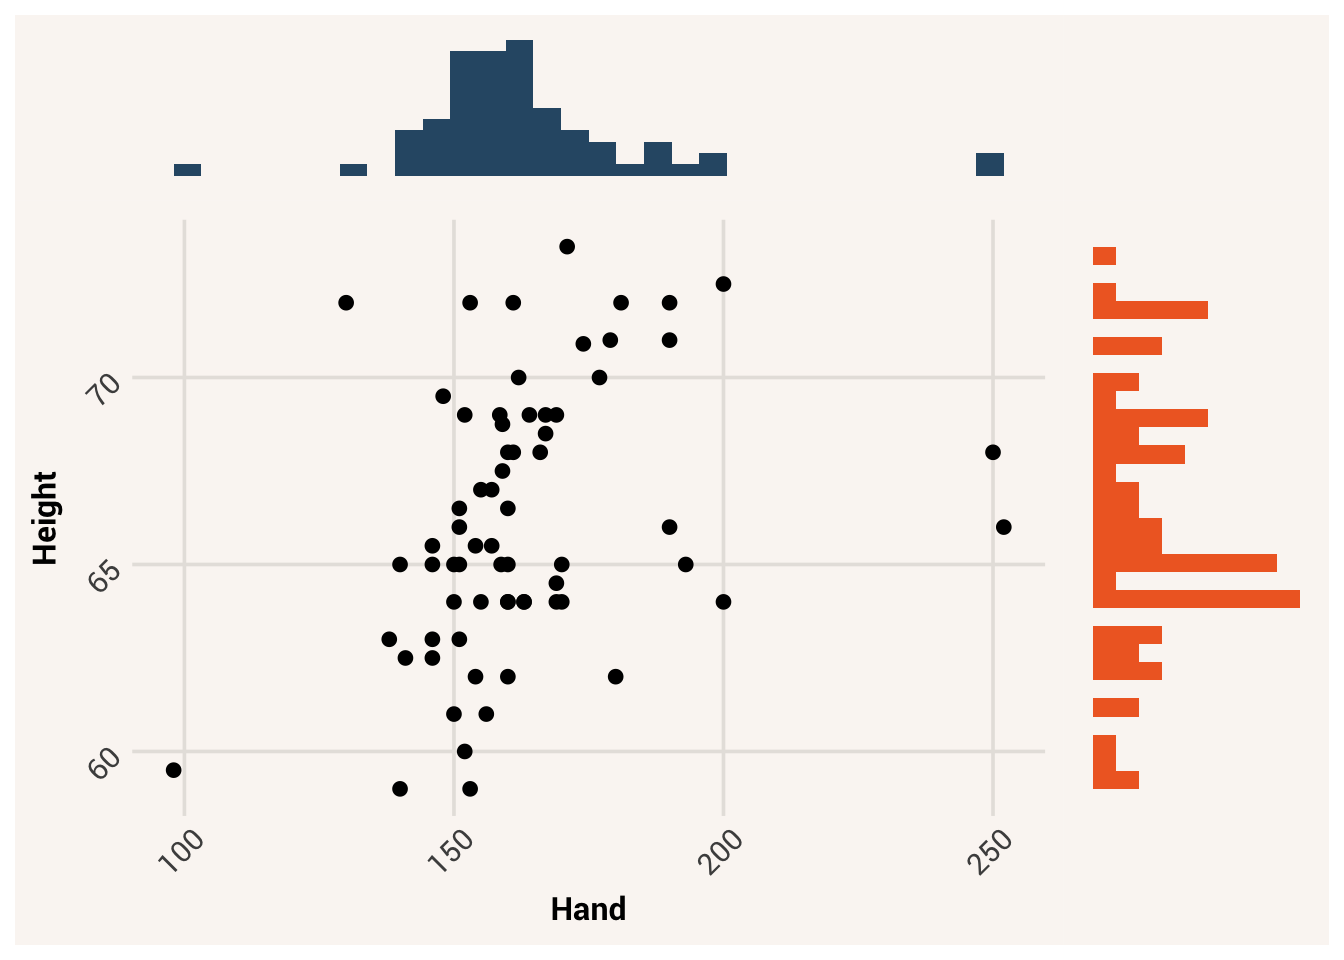
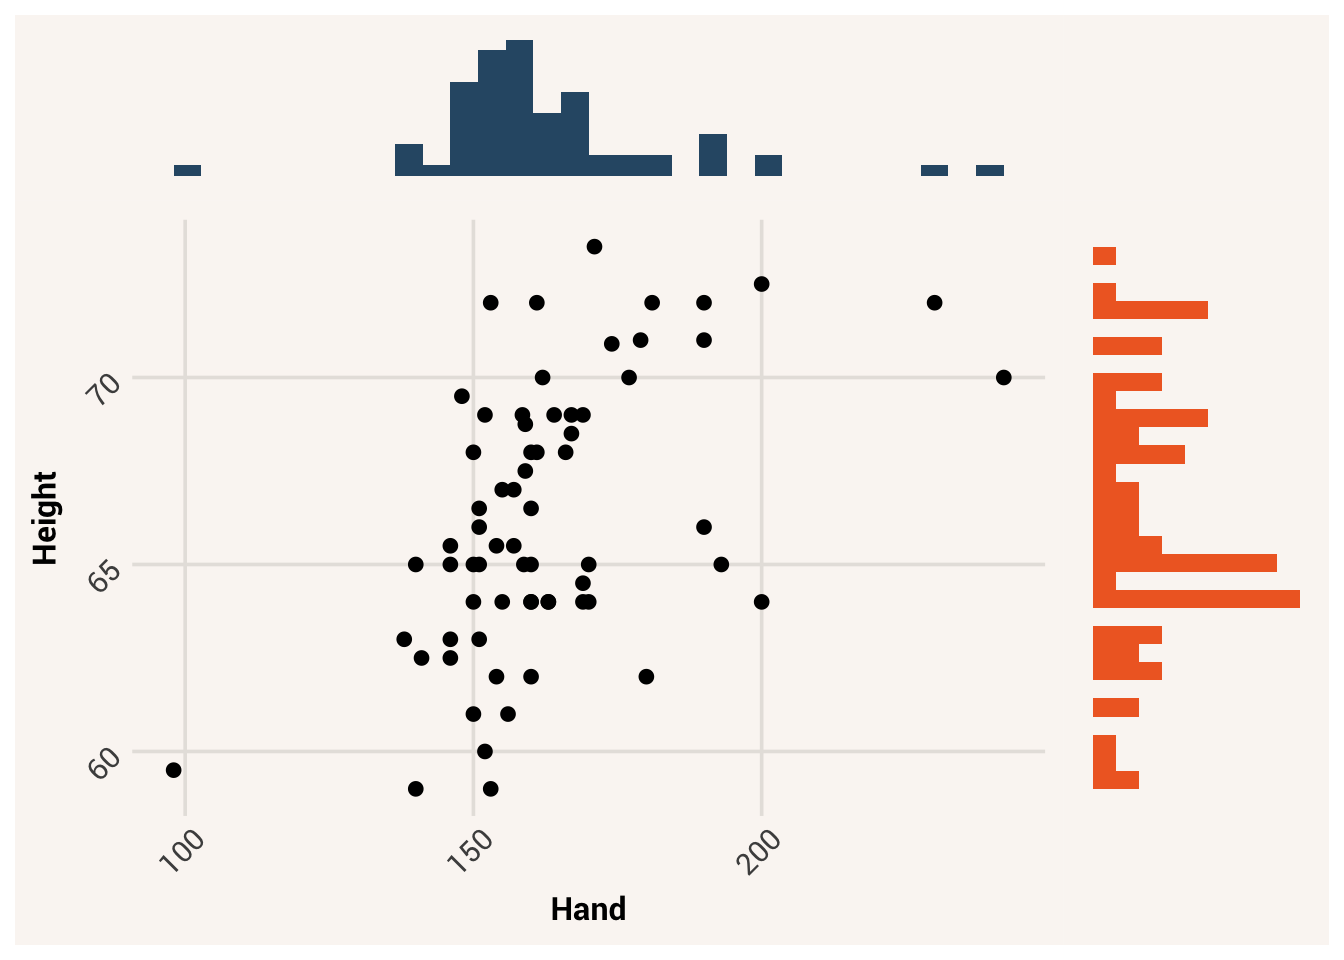
add interactive js widget to ch6

diff --git a/docs/chapter-5.html b/docs/chapter-5.html
@@ -2472,7 +2472,7 @@ Note
 </section>
 <section id="standard-deviation" class="level3 page-columns page-full" data-number="5.6.5">
 <h3 data-number="5.6.5" class="anchored" data-anchor-id="standard-deviation"><span class="header-section-number">5.6.5</span> Standard deviation</h3>
-<div class="page-columns page-full"><p>Since squaring the deviations is what took us away from the units of the variable originally, we could take the square root of the variance to get back to them. This is known as the <strong>standard deviation</strong>. While a variance of 12.84 inches-squared is weird to think about, it’s much easier to understand a standard deviation of 3.58 inches, since it’s expressed in the original units. Interpret it as the typical amount of deviation you expect any randomly-chosen data point to have from the sample mean.</p><div class="no-row-height column-margin column-container"><span class="margin-aside"><strong>standard deviation</strong> = a measure of variation calculated by taking the square root of the variance</span></div></div>
+<div class="page-columns page-full"><p>Since squaring the deviations is what took us away from the units of the variable originally, we could take the square root of the variance to get back to them. This is known as the <strong>standard deviation</strong>. While a variance of 13.07 inches-squared is weird to think about, it’s much easier to understand a standard deviation of 3.61 inches, since it’s expressed in the original units. Interpret it as the typical amount of deviation you expect any randomly-chosen data point to have from the sample mean.</p><div class="no-row-height column-margin column-container"><span class="margin-aside"><strong>standard deviation</strong> = a measure of variation calculated by taking the square root of the variance</span></div></div>
 <p>The mathematical notation for standard deviation is <span class="math inline">\(s\)</span>, though “sd” and “std dev” are also used at times as abbreviations of the term. Because the standard deviation is equal to the square root of the variance, you probably won’t be surprised to see that the formula is:</p>
 <p><span id="eq-stddev"><span class="math display">\[s = \sqrt{\frac{1}{n-1}\sum_{i=1}^{n}(x_i-\bar{x})^2} \tag{5.5}\]</span></span></p>
 <p>This just puts a square root operation around the variance equation (which just divides the sum of squares equation by n-1 - it’s all connected!). The R function to calculate standard deviation is <code>sd()</code>.</p>
@@ -2610,11 +2610,11 @@ Note
 <section id="sec-ch5-zscores" class="level2 page-columns page-full" data-number="5.8">
 <h2 data-number="5.8" class="anchored" data-anchor-id="sec-ch5-zscores"><span class="header-section-number">5.8</span> Z-scores</h2>
 <p>The concepts we’ve covered in this chapter - shape, center, and spread - are all features of a distribution. As we mentioned as the beginning, they don’t apply to individual data points, only the whole. However, they can still be relevant for understanding specific data values, <em>in the context</em> of the whole variable.</p>
-<p>So far our data practice we have only dealt with relatively concrete variables, like <code>Height</code> measured in inches. When we calculate a mean of 66.14 and a standard deviation of 3.58, we know roughly what those amounts look like because we have experience looking at different heights. But what if we got the same standard deviation for a different variable, like light intensity of a light bulb? Do you have any instincts about how much 3.58 lumens is?</p>
+<p>So far our data practice we have only dealt with relatively concrete variables, like <code>Height</code> measured in inches. When we calculate a mean of 66.2 and a standard deviation of 3.61, we know roughly what those amounts look like because we have experience looking at different heights. But what if we got the same standard deviation for a different variable, like light intensity of a light bulb? Do you have any instincts about how much 3.61 lumens is?</p>
 <p>Interpreting the meaning of a variable, and thus its summary statistics, depends on knowing about that variable in real life. It depends on knowing the context of what other values on this variable are typical. This may seem like a problem for doing statistics on variables we are unfamiliar with (which is likely to happen, if we are doing data analysis to understand something better!). However, there is a way we can translate any variable into the same units so that they’re easier to interpret and compare.</p>
 <p>For example, consider a student who is 64 inches tall. Good for them, but what does this mean? Is that a particularly tall height, or pretty normal? How can we know?</p>
-<p>Let’s consider this student’s height relative to the mean of our <code>Height</code> data. By comparing these two values, we know that the student is about 2.14 shorter than average. That helps us get a little closer to understanding what this one data point means. But because we have no idea about the spread of the distribution, we still don’t have a complete answer. Is a 2.14 difference still pretty close to the mean, or is it far away? It’s hard to tell without also knowing what the spread of <code>Height</code> values looks like.</p>
-<p>Standard deviation is useful for this. A standard deviation of 3.58 tells us that, on average, people’s heights are 3.58 away from the mean, both above and below. So although our selected student is below average in height, they are definitely not one of the shortest people in the distribution, or even that atypical - they are only about 0.6 of a standard deviation away from the mean. Check out the histogram in <a href="#fig-ch5-zscore" class="quarto-xref">Figure&nbsp;<span>5.2</span></a> to see this visualized (the green line is the distribution average, while the red line is the selected student’s height).</p>
+<p>Let’s consider this student’s height relative to the mean of our <code>Height</code> data. By comparing these two values, we know that the student is about 2.2 shorter than average. That helps us get a little closer to understanding what this one data point means. But because we have no idea about the spread of the distribution, we still don’t have a complete answer. Is a 2.2 difference still pretty close to the mean, or is it far away? It’s hard to tell without also knowing what the spread of <code>Height</code> values looks like.</p>
+<p>Standard deviation is useful for this. A standard deviation of 3.61 tells us that, on average, people’s heights are 3.61 away from the mean, both above and below. So although our selected student is below average in height, they are definitely not one of the shortest people in the distribution, or even that atypical - they are only about 0.61 of a standard deviation away from the mean. Check out the histogram in <a href="#fig-ch5-zscore" class="quarto-xref">Figure&nbsp;<span>5.2</span></a> to see this visualized (the green line is the distribution average, while the red line is the selected student’s height).</p>
 <div class="cell">
 <div class="cell-output-display">
 <div id="fig-ch5-zscore" class="quarto-float quarto-figure quarto-figure-center anchored">